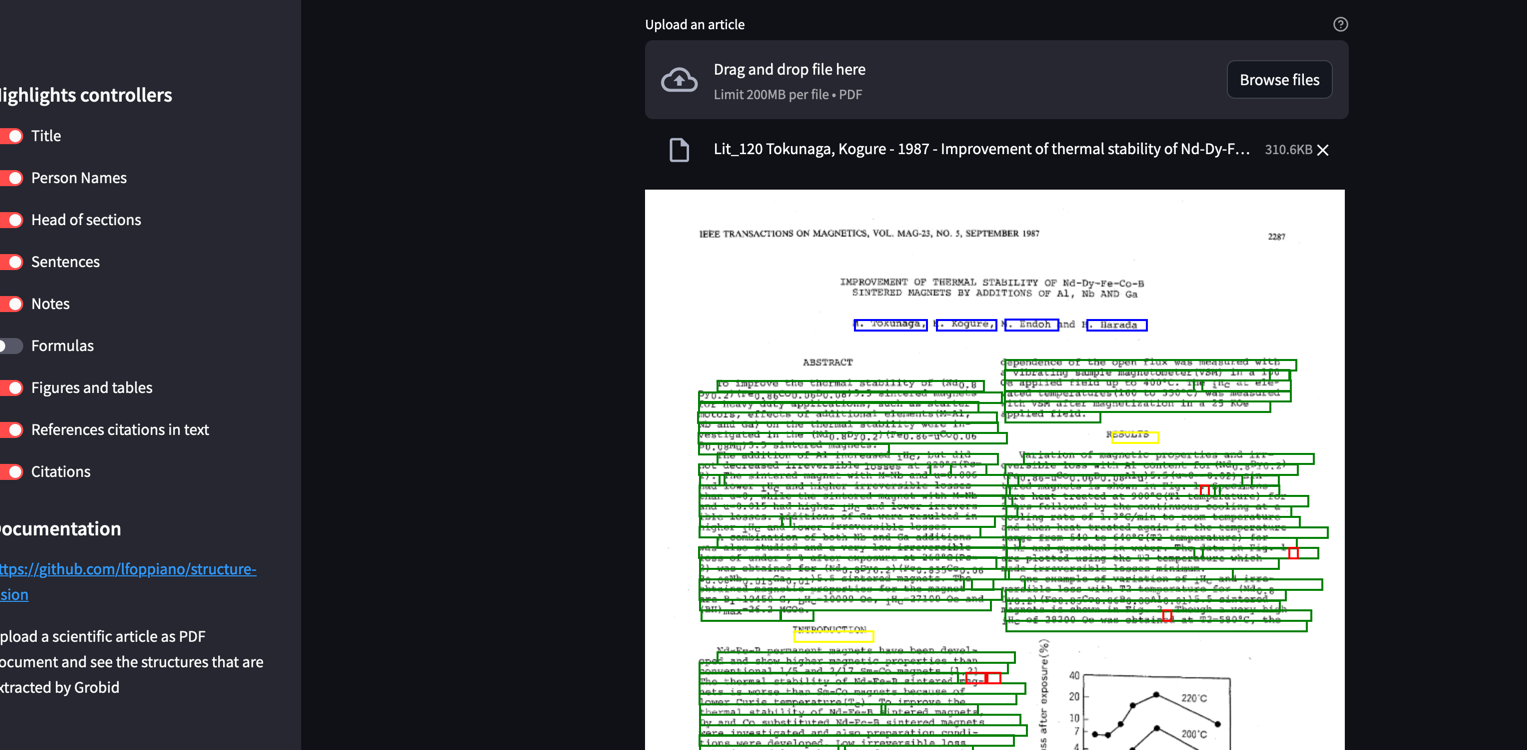
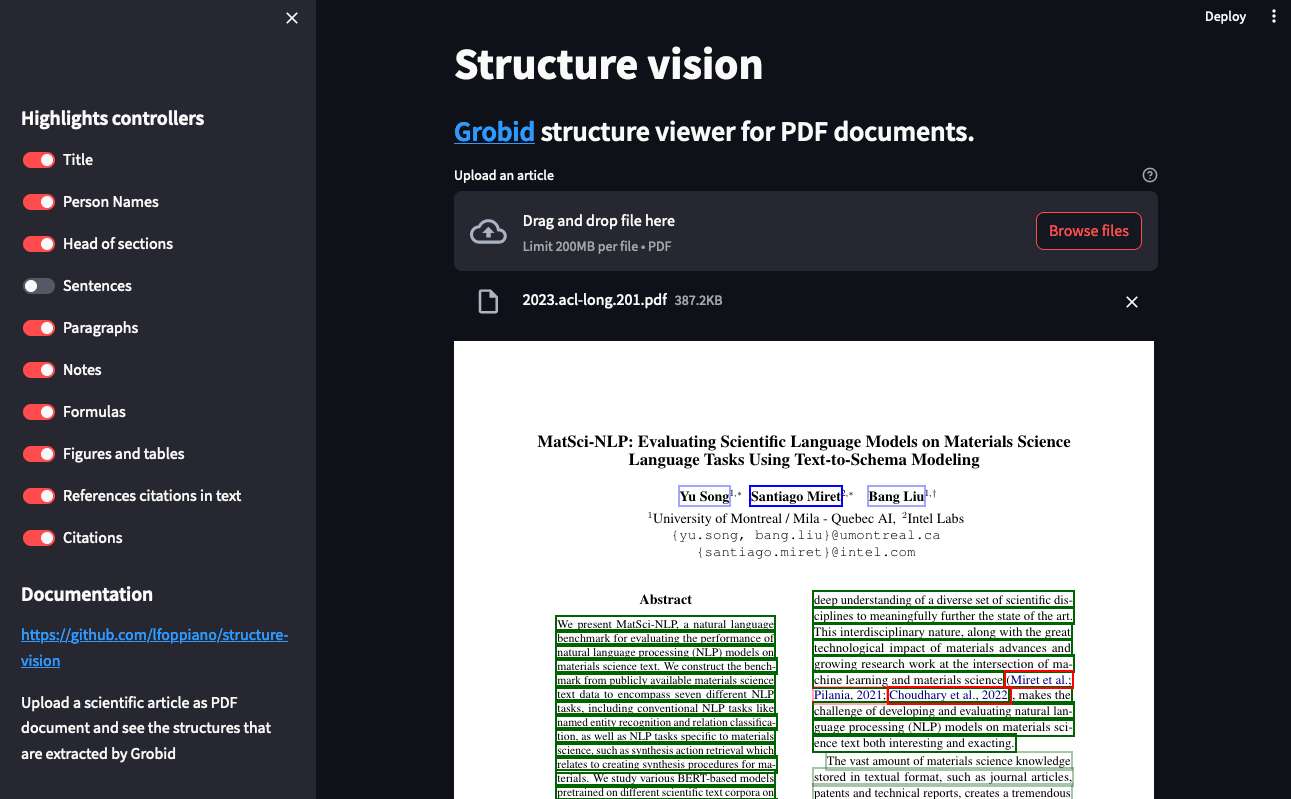
cosmetics

diff --git a/streamlit_app.py b/streamlit_app.py
@@ -35,7 +35,7 @@ if 'annotations' not in st.session_state:
     st.session_state['annotations'] = None
 
 st.set_page_config(
-    page_title="Grobid structure viewer",
+    page_title="Structure vision",
     page_icon="",
     initial_sidebar_state="expanded",
     menu_items={
@@ -100,8 +100,8 @@ def get_file_hash(fname):
     return hash_md5.hexdigest()
 
 
-st.title("Viewer for the structure extracted by Grobid on PDF documents")
-st.subheader("Upload a scientific article in PDF, and see the structures that are extracted by Grobid .")
+st.title("Structure vision")
+st.subheader("[Grobid](https://github.com/kermitt2/grobid) structure viewer for PDF documents.")
 
 uploaded_file = st.file_uploader("Upload an article",
                                  type=("pdf"),
